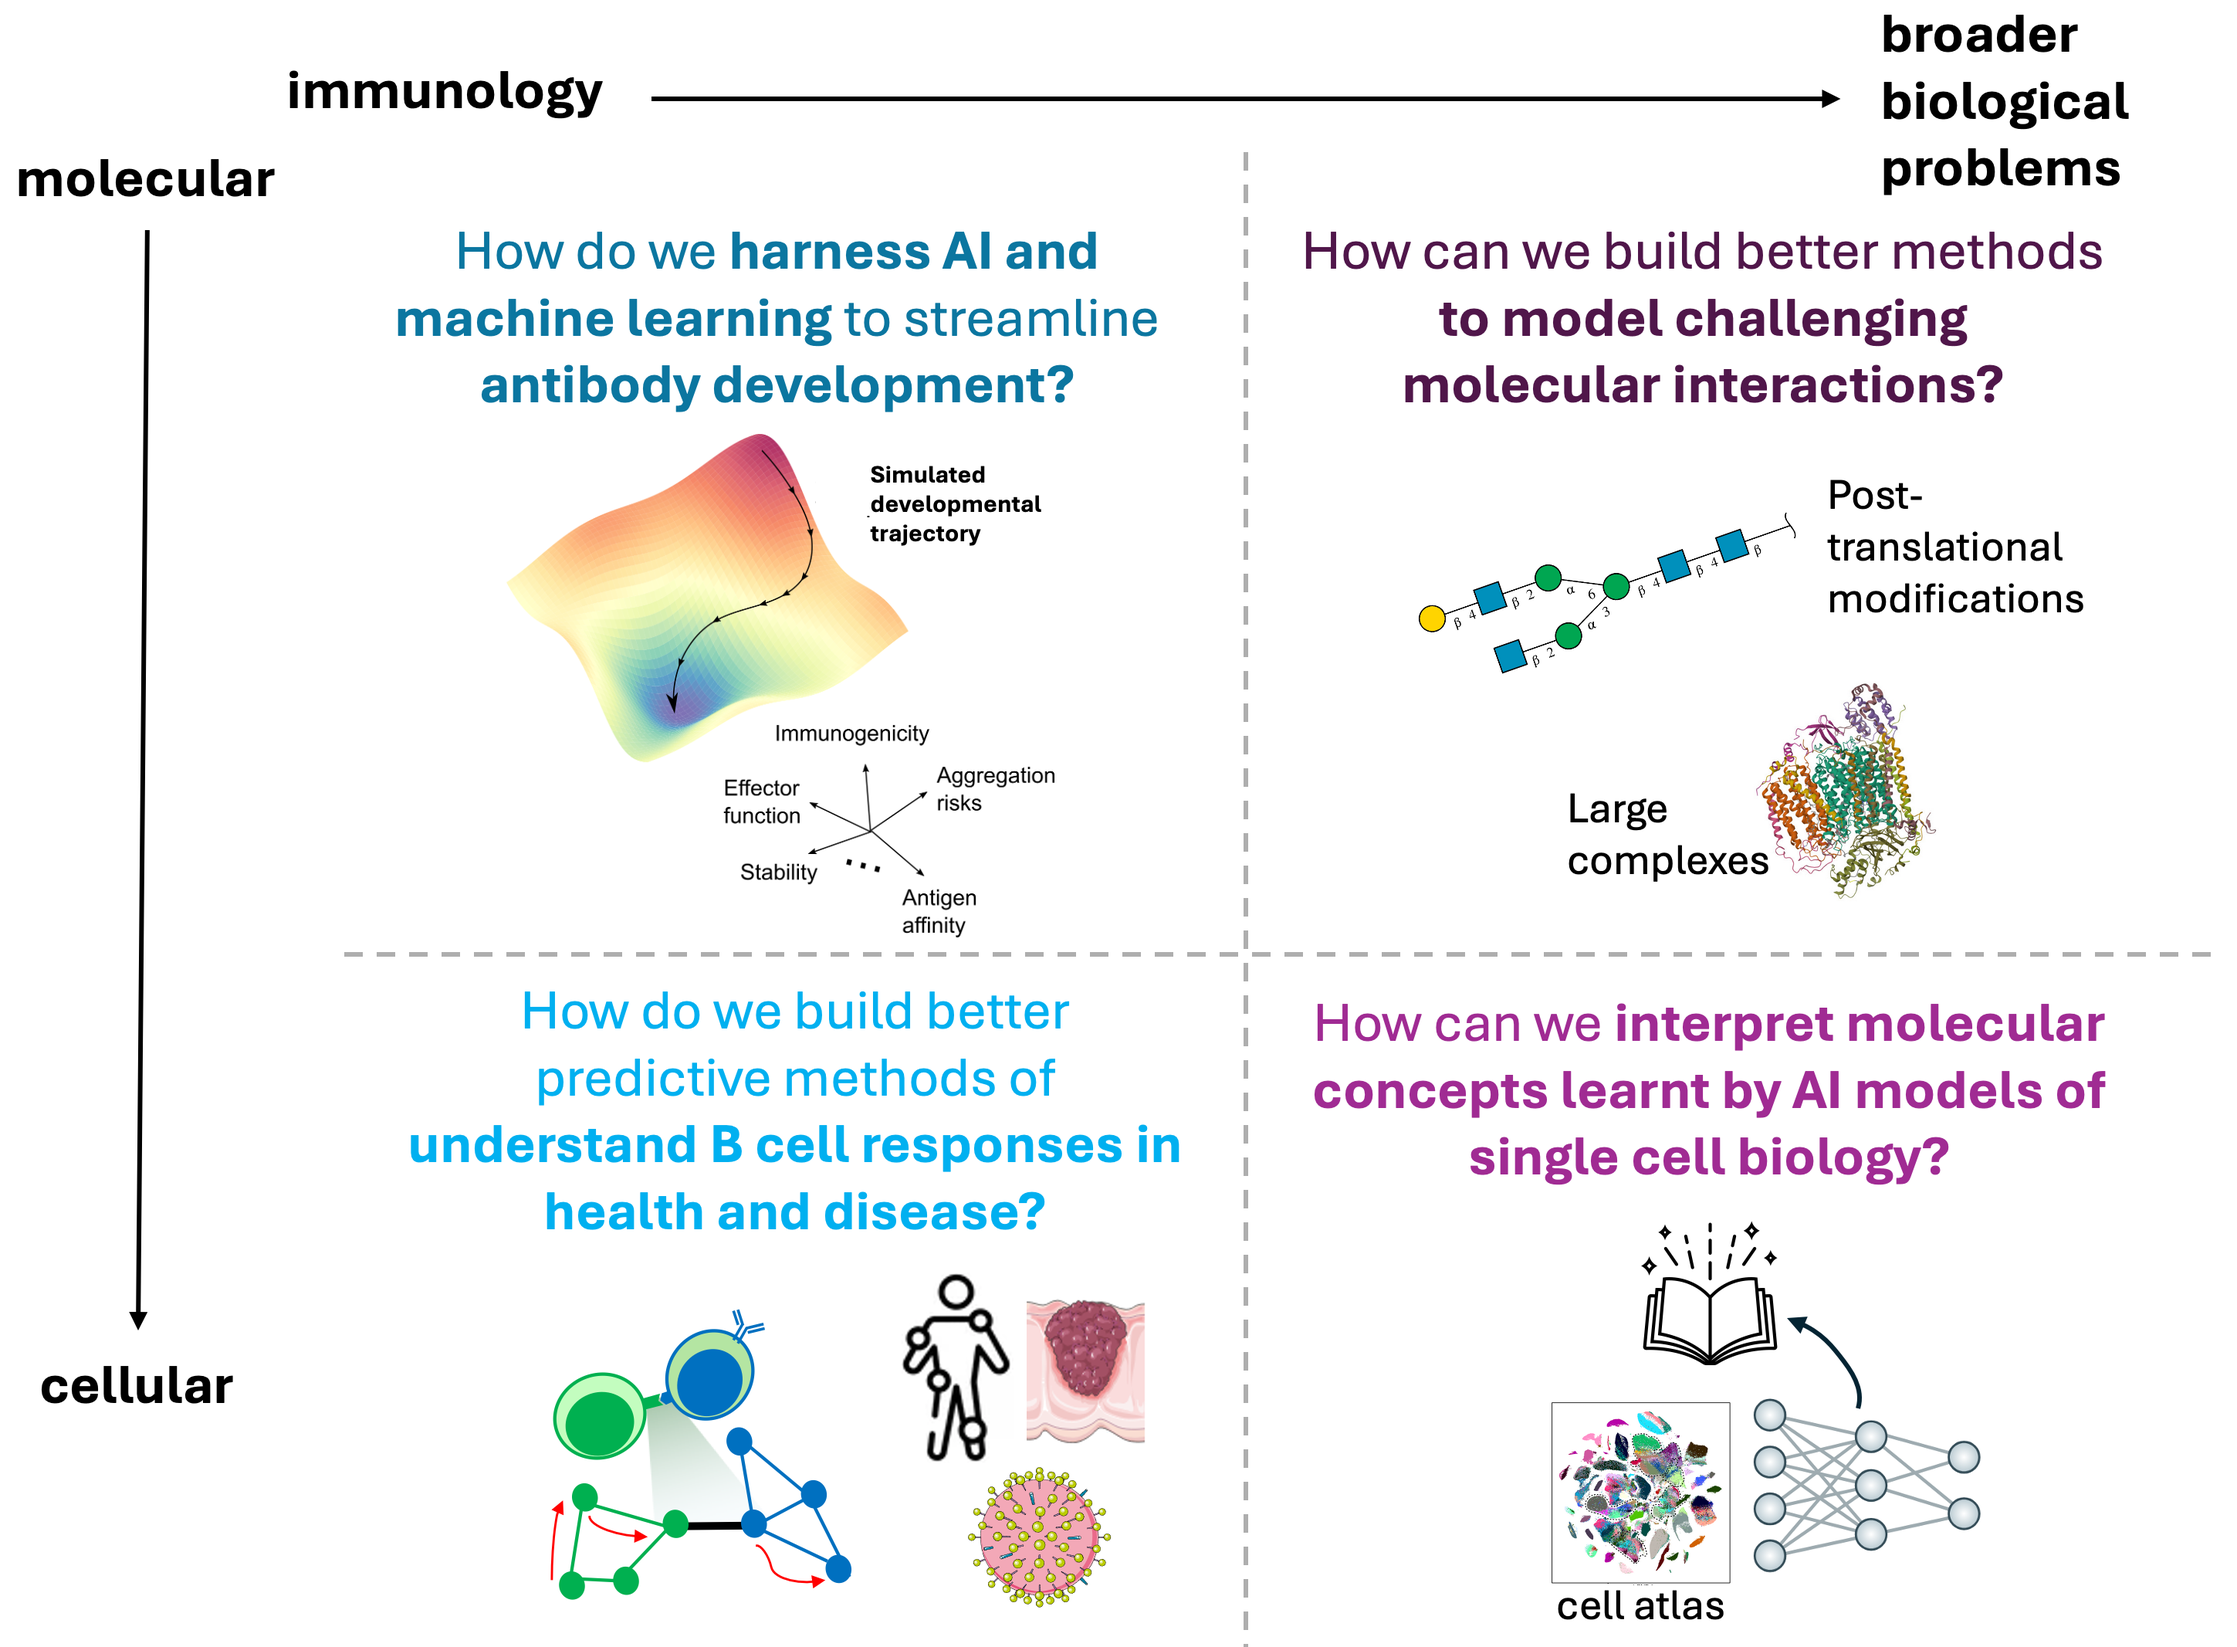
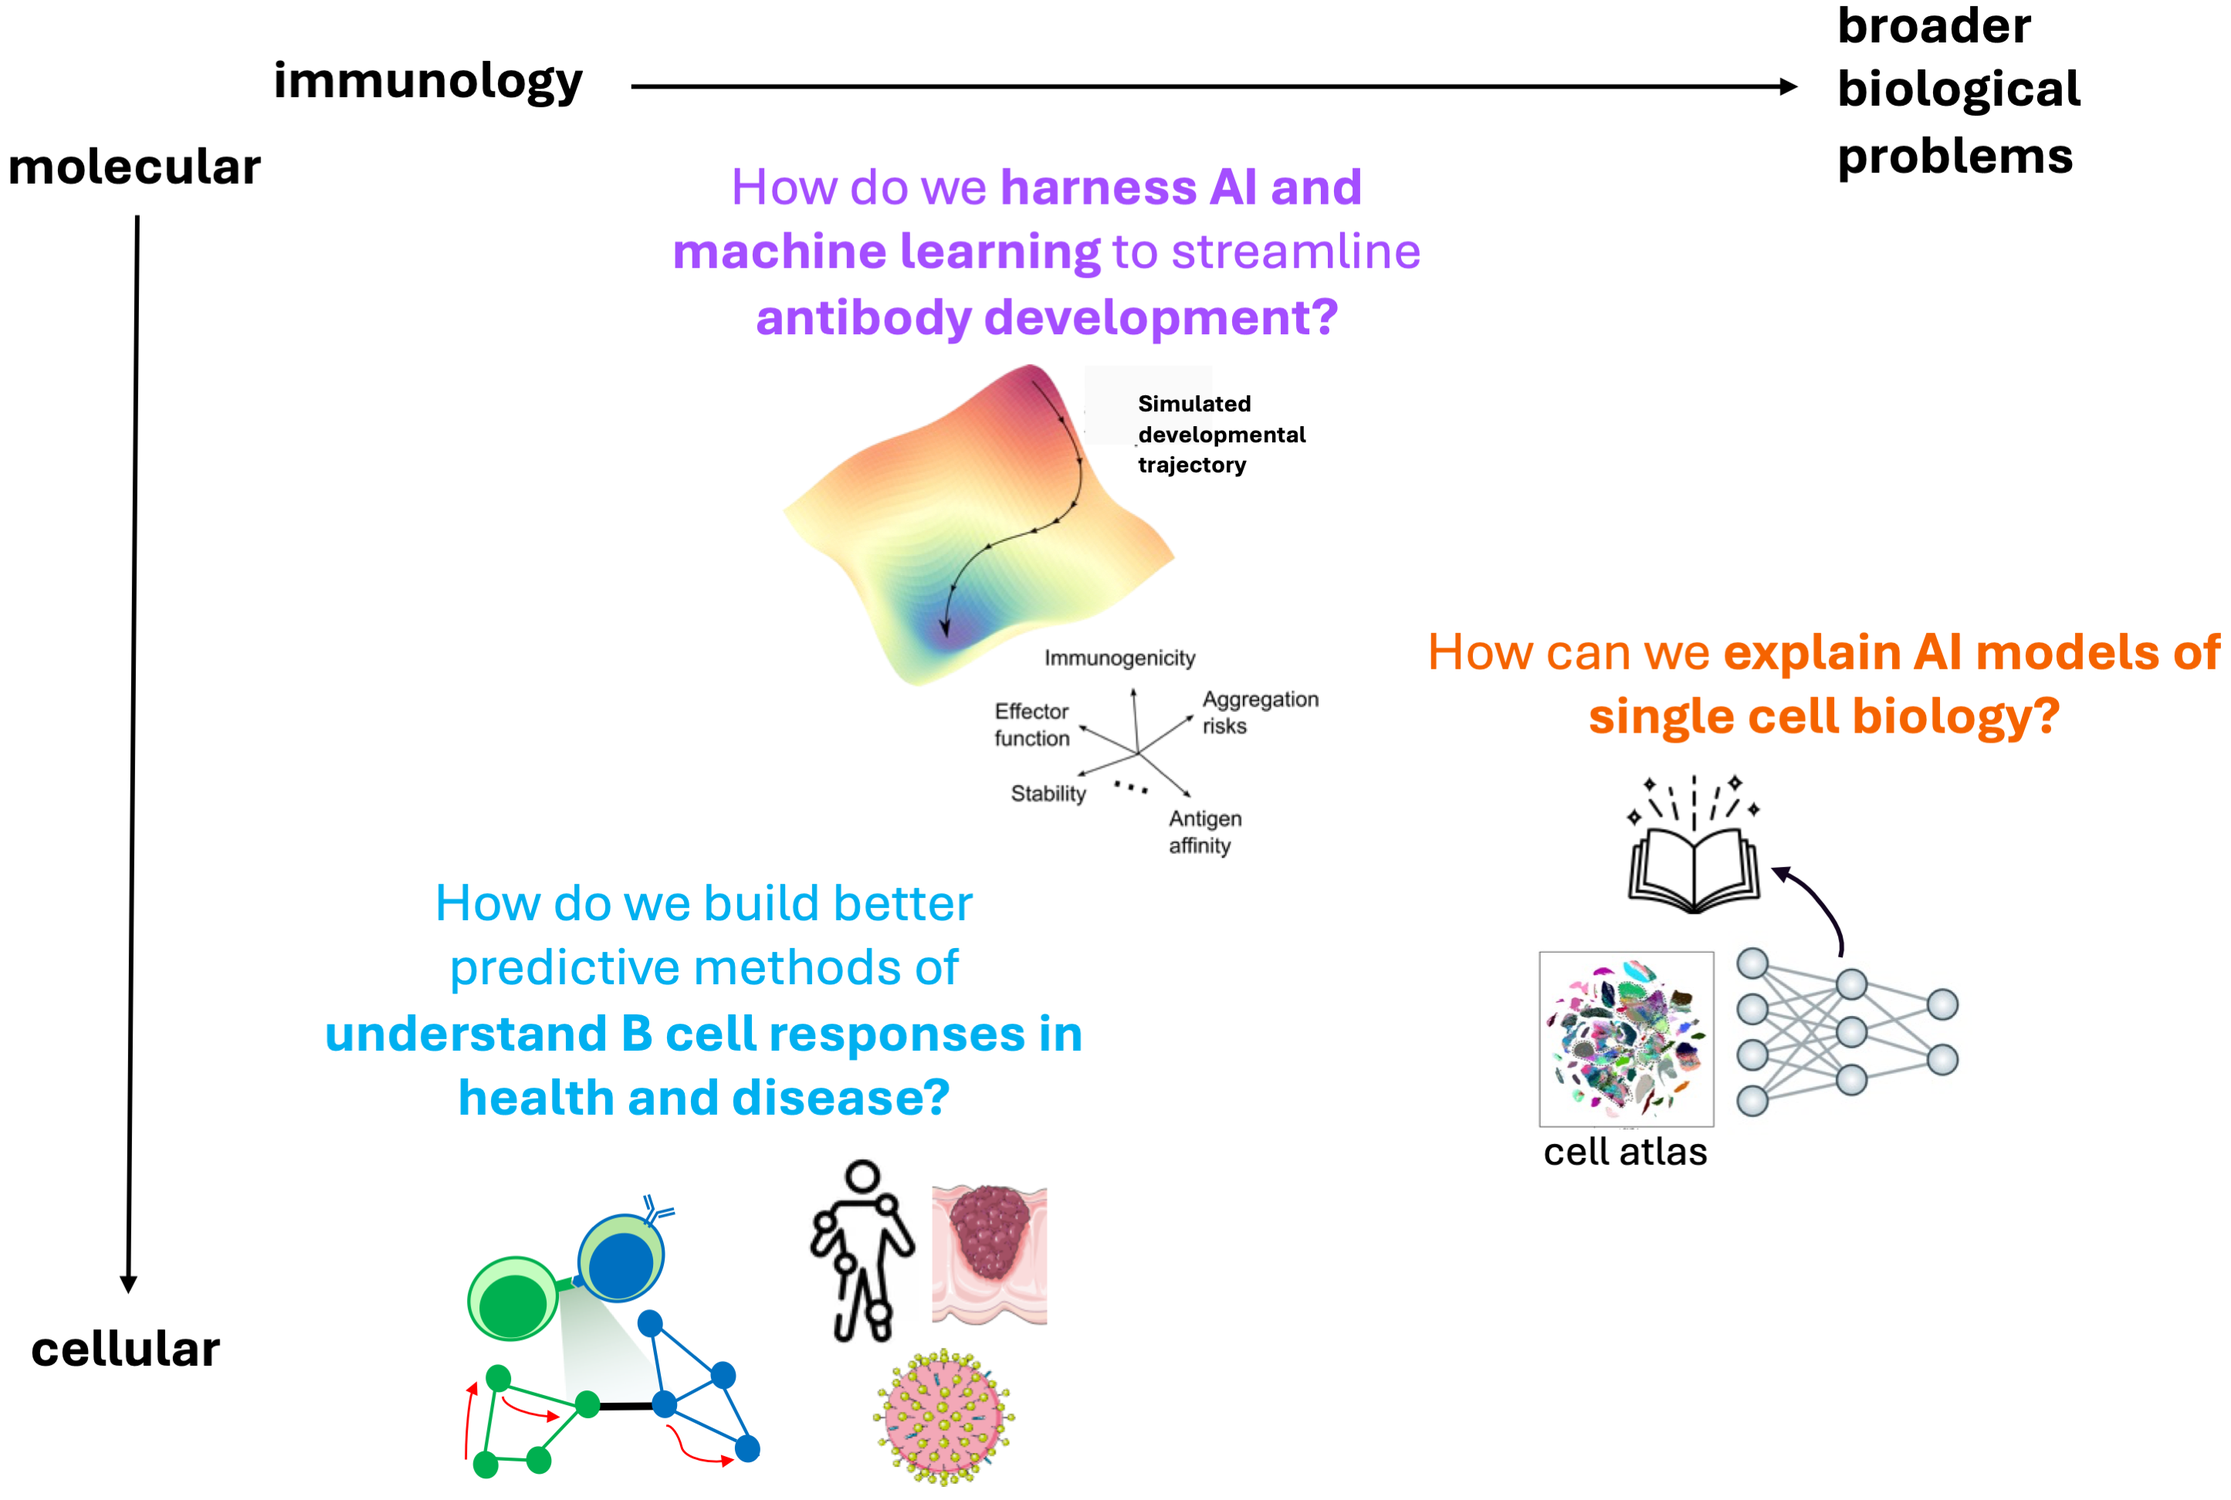
update with people page and details of research

diff --git a/_includes/people-grid.html b/_includes/people-grid.html
@@ -1,0 +1,23 @@
+<div class="people-grid">
+  {% for person in site.data.people %}
+  <div class="person-card">
+    {% if person.page %}<a href="{{ person.page | relative_url }}">{% endif %}
+      {% if person.image %}
+        <img class="person-card__photo" src="{{ person.image | relative_url }}" alt="{{ person.name }}">
+      {% else %}
+        <div class="person-card__photo person-card__photo--blank"><i class="fas fa-user"></i></div>
+      {% endif %}
+      <div class="person-card__name">{{ person.name }}</div>
+    {% if person.page %}</a>{% endif %}
+    {% if person.role %}<div class="person-card__role">{{ person.role }}</div>{% endif %}
+    <div class="person-card__links">
+      {% if person.email %}<a href="mailto:{{ person.email }}" title="Email"><i class="fas fa-envelope"></i></a>{% endif %}
+      {% if person.website %}<a href="{{ person.website }}" title="Website"><i class="fas fa-link"></i></a>{% endif %}
+      {% if person.github %}<a href="https://github.com/{{ person.github }}" title="GitHub"><i class="fab fa-github"></i></a>{% endif %}
+      {% if person.orcid %}<a href="https://orcid.org/{{ person.orcid }}" title="ORCID"><i class="fab fa-orcid"></i></a>{% endif %}
+      {% if person.linkedin %}<a href="https://www.linkedin.com/in/{{ person.linkedin }}" title="LinkedIn"><i class="fab fa-linkedin"></i></a>{% endif %}
+      {% if person.twitter %}<a href="https://twitter.com/{{ person.twitter }}" title="X / Twitter"><i class="fab fa-twitter"></i></a>{% endif %}
+    </div>
+  </div>
+  {% endfor %}
+</div>

diff --git a/assets/css/main.scss b/assets/css/main.scss
@@ -6,3 +6,54 @@
 
 @import "minimal-mistakes/skins/{{ site.minimal_mistakes_skin | default: 'default' }}"; // skin
 @import "minimal-mistakes"; // main partials
+
+.archive__item-teaser img {
+  max-height: 200px;
+  object-fit: cover;
+  width: 100%;
+}
+
+/* People page */
+.people-grid {
+  display: grid;
+  grid-template-columns: repeat(auto-fill, minmax(160px, 1fr));
+  gap: 1.5em;
+  margin: 1.5em 0;
+}
+
+.person-card {
+  text-align: center;
+
+  a { text-decoration: none; }
+}
+
+.person-card__photo {
+  width: 140px;
+  height: 140px;
+  border-radius: 50%;
+  object-fit: cover;
+  margin: 0 auto 0.5em;
+  display: block;
+}
+
+.person-card__photo--blank {
+  display: flex;
+  align-items: center;
+  justify-content: center;
+  background: #e5e5e5;
+  color: #999;
+  font-size: 3em;
+}
+
+.person-card__name { font-weight: bold; }
+
+.person-card__role {
+  font-size: 0.8em;
+  color: #666;
+}
+
+.person-card__links {
+  margin-top: 0.3em;
+
+  a { margin: 0 0.25em; }
+}

diff --git a/_pages/immune-sequences.md b/_pages/immune-sequences.md
@@ -14,22 +14,11 @@ This has been a research direction I pursue since my post-doc days. I conduct la
 
 This has resulted in a number of bioinformatics tools to analyse antibody sequence variations using data generated with high-throughput sequencing methods. We analyse variations in terms of CSR, somatic hypermutation (SHM) and other diversification mechanisms observed in variable regions of antibodies.
 
-**Code**
+# Code
 
-[sciCSR](https://github.com/Fraternalilab/sciCSR): R package for detecting sterile and productive immunoglobulin transcripts from scRNA-seq sequencing data of B cells, and use these signals to build models to describe transitions between B cell states.
+[ImmunoMatch](https://github.com/Fraternalilab/ImmunoMatch): A fine-tuned antibody language model for the identification of cognate paired immunoglobulin Heavy (H) and Light (L) chains. Trained from single-cell paired H-L amino acid sequences, we showed that the ImmunoMatch model reveals insights into how chain pairing propensity changes across B cell maturation stages and explored how this can be game-changing in antibody discovery pipelines from spatial transcriptomics datasets. ([*Nature Methods 2026*](https://doi.org/10.1038/s41592-025-02913-x))
 
-[ImmunoMatch](https://github.com/Fraternalilab/ImmunoMatch): A fine-tuned antibody language model for the identification of cognate paired immunoglobulin Heavy (H) and Light (L) chains. Trained from single-cell paired H-L amino acid sequences, we showed that the ImmunoMatch model reveals insights into how chain pairing propensity changes across B cell maturation stages and explored how this can be game-changing in antibody discovery pipelines from spatial transcriptomics datasets.
+[BrepConvert](https://github.com/Fraternalilab/BrepConvert): R package for flexible and detailed annotation of gene conversion events in immunoglobulin repertoire. Designed to analyse repertoire data from primates such as chicken, rabbit etc where gene conversion is prevalent to generate antibody diversity. ([*Discovery Immunology 2023*](https://doi.org/10.1093/discim/kyad002), [*Immuongenetics 2026*](https://doi.org/10.1007/s00251-026-01400-7))
 
-[BrepConvert](https://github.com/Fraternalilab/BrepConvert): R package for flexible and detailed annotation of gene conversion events in immunoglobulin repertoire. Designed to analyse repertoire data from primates such as chicken, rabbit etc where gene conversion is prevalent to generate antibody diversity.
+[BrepPhylo](https://github.com/Fraternalilab/BrepPhylo): R package for fast lineage reconstruction, enabling analysis on large samples of clonotypes from BCR repertoire data. ([*Frontier in Immunology 2022*](https://doi.org/10.3389/fimmu.2022.807104))
 
-[BrepPhylo](https://github.com/Fraternalilab/BrepPhylo): R package for fast lineage reconstruction, enabling analysis on large samples of clonotypes from BCR repertoire data.
-
-[scRNAVeloQuant](https://github.com/Fraternalilab/scRNAVeloQuant): R code snippet to quantify transitions between cell types from RNA velocity estimates in single-cell RNA sequencing data analysis.
-
-**Publications**
-
-Please refer to below for some of my key papers in this area:
-
-Ng JCF, Montamat Garcia G, Stewart AT et al. sciCSR infers B cell state transition and predicts class-switch recombination dynamics using single-cell transcriptomic data. *Nat Methods* 21, 823–834 (2024). <https://doi.org/10.1038/s41592-023-02060-1>
-
-Guo D, Dunn-Walters DK, Fraternali F & Ng JCF. ImmunoMatch learns and predicts cognate pairing of heavy and light immunoglobulin chains. *Nat Methods* (2025). <https://doi.org/10.1038/s41592-025-02913-x>

diff --git a/_pages/people.md b/_pages/people.md
@@ -1,0 +1,31 @@
+---
+defaults:
+  # _pages
+  - scope:
+      path: ""
+      type: pages
+author_profile: true
+layout: single
+title: "People"
+permalink: /people/
+---
+
+# Current members
+<!-- Members are listed in _data/people.yml; each member's own page lives in _pages/people/ -->
+{% include people-grid.html %}
+
+
+I am always open to enquiries regarding joining the lab as a student or postdoctoral researcher. We normally recruit students via the following programmes:
+
+* [BBSRC London Interdisciplinary Biosciences Programme (LIDo)](https://www.lido-dtp.ac.uk/)
+* [UCL Birkbeck MRC Doctoral Training Programme](https://www.uclbbk-mrcdtp.ac.uk/)
+* [UCL BSc/MSci Biochemistry](https://www.ucl.ac.uk/life-sciences/study/undergraduate/biochemistry-degrees) programme: join us as a Year 4 Research Project student, or for summer project opportunities
+* Join us for MSc/MRes research projects: e.g. [UCL MRes Computational Cell Biophysics](https://www.ucl.ac.uk/life-sciences/computational-cell-biophysics-mres), [UCL MRes Biosciences](https://www.ucl.ac.uk/life-sciences/mres-biosciences-0), [UCL MSc Biomedical Sciences](https://www.ucl.ac.uk/life-sciences/biomedical-sciences-msc-0)
+
+Please feel free to email Joseph to discuss possibilities to join the lab.
+
+# Alumni
+
+* Cheng Yu (Summer student 2026)
+* Peixin Chen (Summer student 2026)
+* Emily Sims (Summer student 2026)

diff --git a/_pages/home.md b/_pages/home.md
@@ -8,7 +8,9 @@ author_profile: true
 
 Our lab works on developing new computational methods to study and characterise molecular systems that play significant roles in immunity and cancer. We are based at the Research Department of [Structural & Molecular Biology (SMB)](https://www.ucl.ac.uk/life-sciences/smb), Division of Biosciences at UCL.
 
-We have historical and long-standing interests in B cell response in different biological contexts, as well as systematic analysis of antibody sequences. We also build on our expertise in these problems and explore other complex biological systems and data modalities:
+The broad goal of the lab is to create intelligent solutions that capitalise on the increasing amount of biological data to understand how our immune system works, and scenarios where it breaks down. We care not just about accurate predictions of the system, but that these predictions are interpretable and biologically relevant.
+
+We have long-standing interests in B cell response in different biological contexts, as well as systematic analysis of antibody sequences. We also build on our expertise in these problems and explore other complex biological systems and data modalities:
 
 ![main lab questions](/assets/images/lab_question_graphic.png)
 

diff --git a/_pages/omics-analytics.md b/_pages/omics-analytics.md
@@ -19,3 +19,10 @@ Some of my key works in the area:
 * We created sciCSR that extracts B cell specific biological signals from scRNA-seq alignments and use this to understand the dynamics of B cell maturation ([*Nature Methods 2024*](https://doi.org/10.1038/s41592-023-02060-1))
 
 I am keen to explore a wide variety of biological systems beyond B cells. We are also exploring new methods and strategies to characterise and understand Artificial Intelligence methods developed in this area, to understand how these approaches learn novel biology from noisy, complex measurements of molecular outputs of cells.
+
+# Code
+
+[sciCSR](https://github.com/Fraternalilab/sciCSR): R package for detecting sterile and productive immunoglobulin transcripts from scRNA-seq sequencing data of B cells, and use these signals to build models to describe transitions between B cell states.
+
+[scRNAVeloQuant](https://github.com/Fraternalilab/scRNAVeloQuant): R code snippet to quantify transitions between cell types from RNA velocity estimates in single-cell RNA sequencing data analysis.
+

diff --git a/_pages/people/new-member.md b/_pages/people/new-member.md
@@ -1,0 +1,14 @@
+---
+# Template for a member page: copy this file, rename it, and change
+# the title and permalink. The permalink must match `page:` in _data/people.yml.
+layout: single
+author_profile: true
+title: "New Member"
+permalink: /people/new-member/
+---
+
+**PhD Student**
+
+A short bio, research interests, and anything else they would like to share.
+
+[← Back to People]({{ '/people/' | relative_url }})
